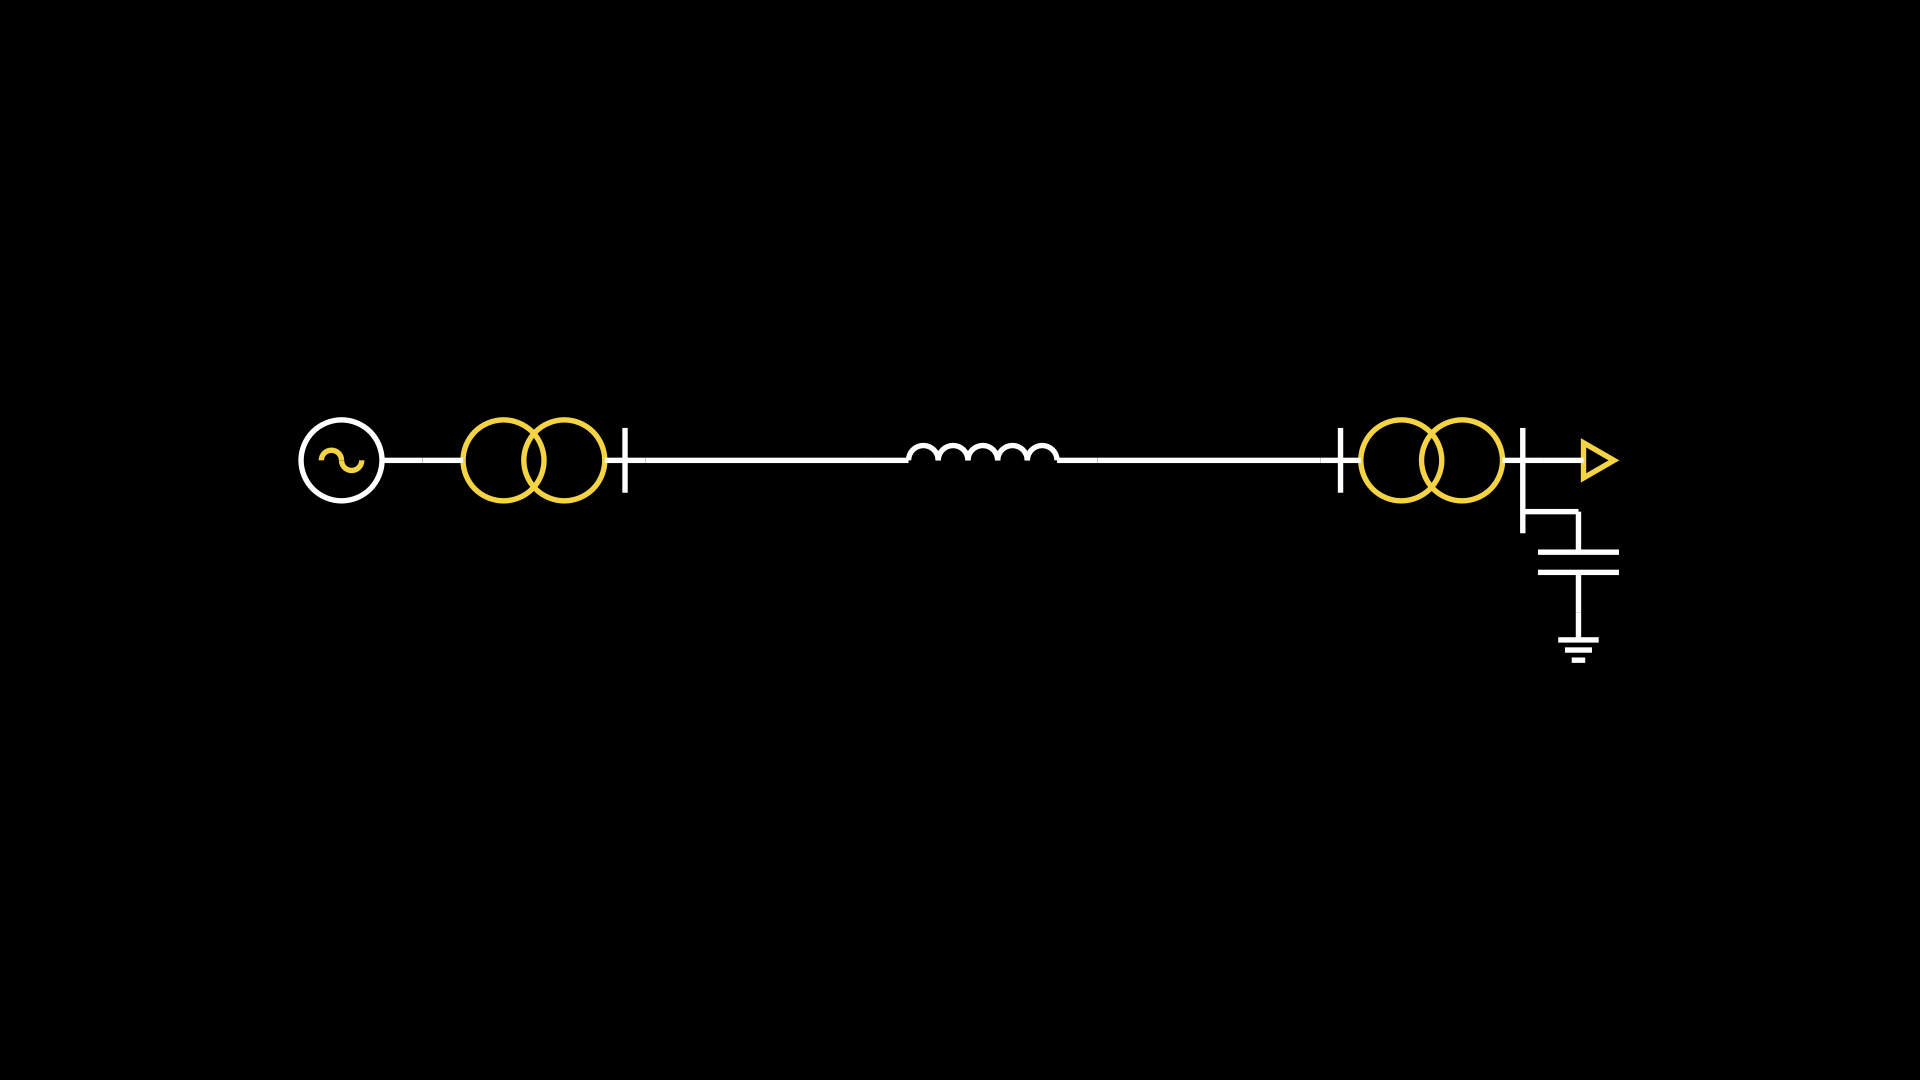
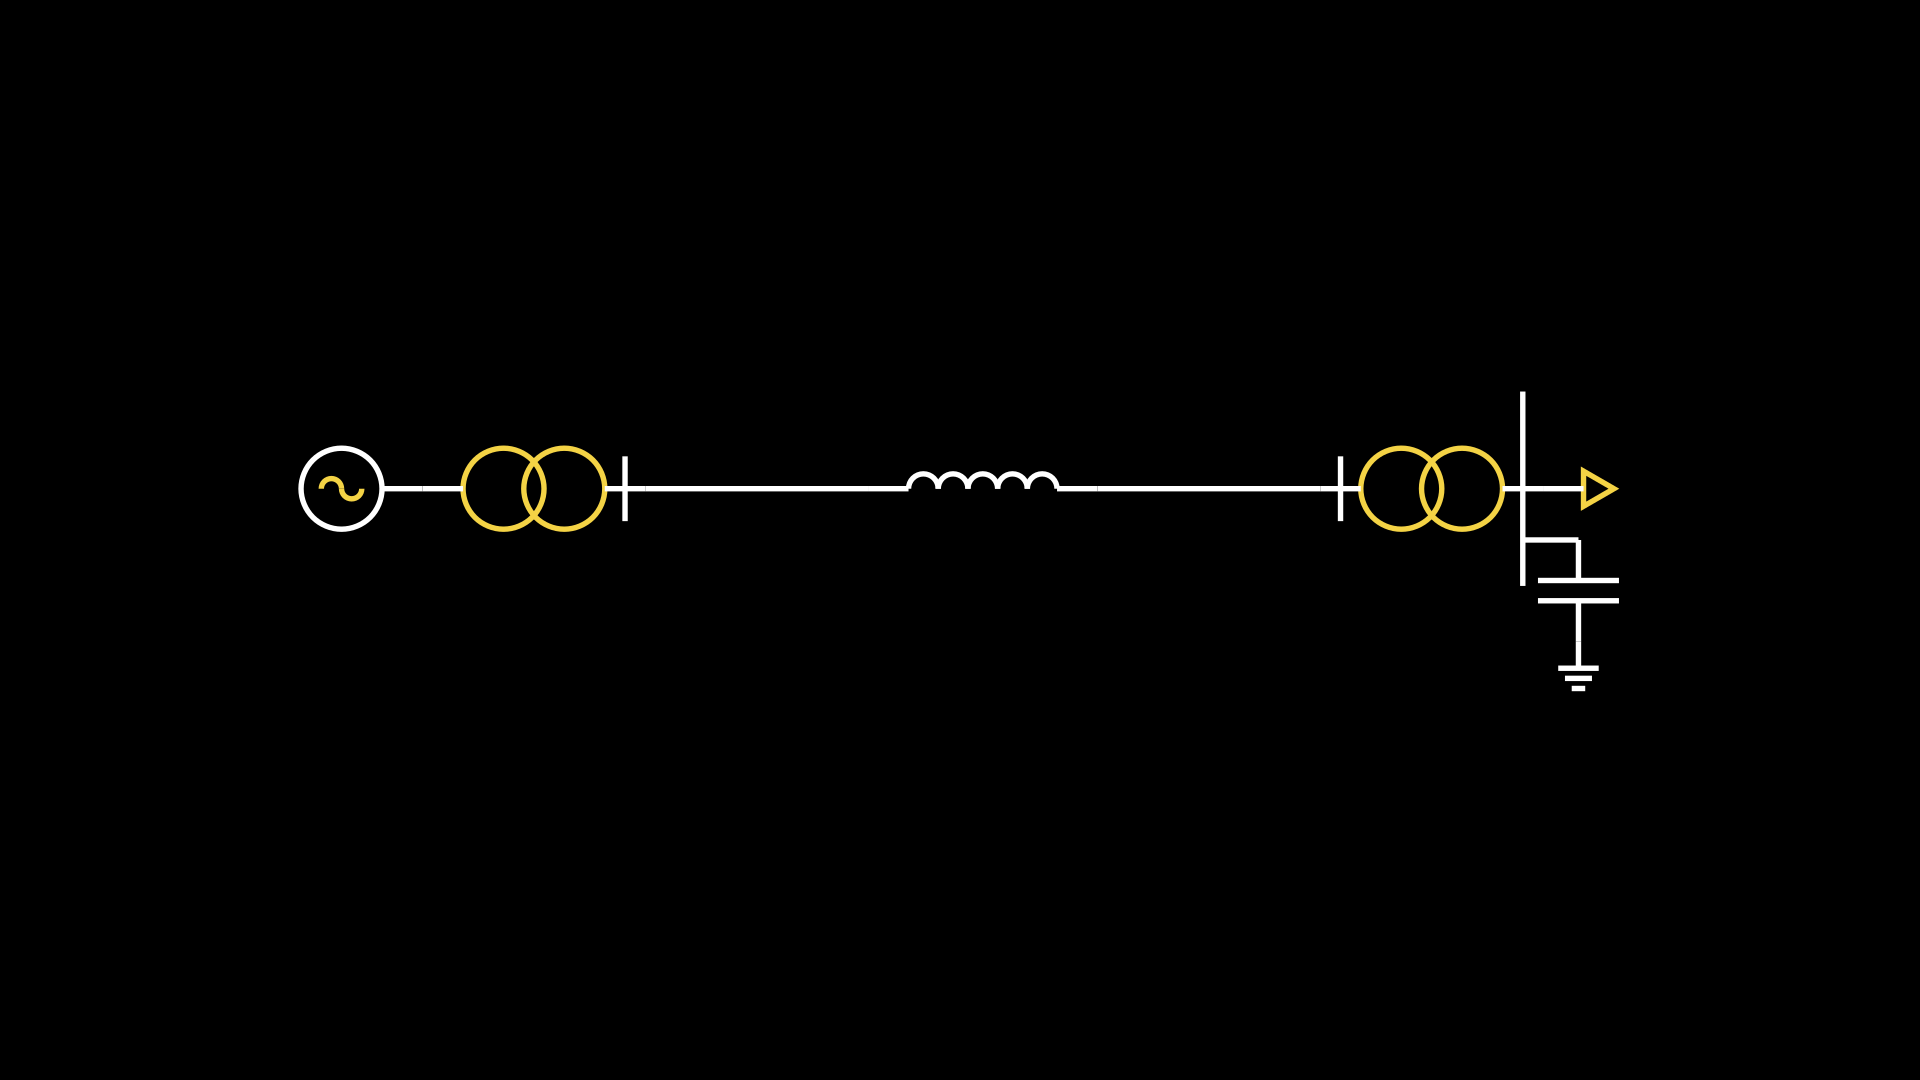
基本实现基础元件绘制  代码更加规范化  优化了效果图的表现  删除了Bus.prolong

Changed region(s): [[0.1562, 0.3667, 0.8438, 0.6417]]

diff --git a/manimee.py b/manimee.py
@@ -4,46 +4,40 @@
 # @File    : manimee.py
 # @Description : Manim in electrical engineering. 电气工程Manim。
 from manim import *
-from manim.typing import Vector3D
 
-CIRCLE_RADIUS: float = 0.3                  # 圆形的默认半径
-LINE_LENGTH: float = 0.3                    # 引出线默认长度
-BUS_LENGTH: float = CIRCLE_RADIUS * 1.6     # 母线默认长度
-LOAD_TRIANGLE_SCALE: float = 0.15           # 负荷符号三角形 相对于 Manim默认三角形 的缩放比例
-VOLTAGE_OUTER_RADIUS: float = 0.1           # 电压圆环默认外径
-AUTO_TRANSFORMER_ARC_RATE: float = 1.4      # 自耦变压器弧线的半径对于CIRCLE_RADIUS的倍率
+CIRCLE_RADIUS: float = 0.3  # 圆形的默认半径
+LINE_LENGTH: float = 0.3  # 引出线默认长度
+BUS_LENGTH: float = CIRCLE_RADIUS * 1.6  # 母线默认长度
+LOAD_TRIANGLE_SCALE: float = 0.15  # 负荷符号三角形 相对于 Manim默认三角形 的缩放比例
+VOLTAGE_OUTER_RADIUS: float = 0.1  # 电压圆环默认外径
+AUTO_TRANSFORMER_ARC_RATE: float = 1.4  # 自耦变压器弧线的半径对于CIRCLE_RADIUS的倍率
 
-NORMAL_COLOR: ManimColor = YELLOW_D         # 特殊颜色的默认颜色
+NORMAL_COLOR: ManimColor = YELLOW_D  # 特殊颜色的默认颜色
 
 
 class Bus(Line):
     """
     母线
     """
+
     def __init__(self,
+                 length: float = BUS_LENGTH,
                  buff=0,
                  path_arc=None,
-                 **kwargs):
-        super().__init__(ORIGIN, (0, BUS_LENGTH, 0), buff, path_arc, **kwargs)
-
-    def prolong(self,
-                length: float,
-                direction: Vector3D = DOWN):
-        """
-        延长
-        :param length: 长度
-        :param direction: 延长方向。取投影向量方向。
-        :return: self
-        """
-
-        return self
+                 **kwargs
+                 ):
+        super().__init__(ORIGIN, (0, length, 0), buff, path_arc, **kwargs)
 
 
 class Gnd(VGroup):
     """
     GND
     """
-    def __init__(self, *vmobjects, **kwargs):
+
+    def __init__(self,
+                 *vmobjects,
+                 **kwargs
+                 ):
         """
         :param vmobjects: 同 VGroup
         :param kwargs: 同 VGroup
@@ -67,9 +61,11 @@ class Voltage(Annulus):
     """
     可视化电压电压，效果为圆环，外径反应电压数值大小，内径反应电压横分量大小。
     """
+
     def __init__(self,
                  voltage_level: float = 0,
-                 voltage: complex = 0):
+                 voltage: complex = 0
+                 ):
         """
         电压可视化
         :param voltage_level: 电压等级
@@ -100,7 +96,8 @@ class Voltage(Annulus):
 
     @voltage_level.setter
     def voltage_level(self,
-                      voltage_level: float):
+                      voltage_level: float
+                      ):
         self._voltage_level = voltage_level
         self._rectify_radius()
 
@@ -111,7 +108,8 @@ class Voltage(Annulus):
 
     @voltage.setter
     def voltage(self,
-                voltage: complex):
+                voltage: complex
+                ):
         self._voltage = voltage
         self._rectify_radius()
 
@@ -120,6 +118,7 @@ class Impedance(VGroup):
     """
     电阻/阻抗/导纳
     """
+
     def __init__(self,
                  *vmobjects,
                  **kwargs):
@@ -139,10 +138,12 @@ class Inductance(VGroup):
     """
     电感
     """
+
     def __init__(self,
                  arc_amount: int = 5,
                  *vmobjects,
-                 **kwargs):
+                 **kwargs
+                 ):
         """
         :param arc_amount: 圆弧数量
         :param vmobjects: 同 VGroup
@@ -169,9 +170,11 @@ class Capacitor(VGroup):
     """
     电容
     """
+
     def __init__(self,
                  *vmobjects,
-                 **kwargs):
+                 **kwargs
+                 ):
         super().__init__(*vmobjects, **kwargs)
         # 电容符号的极板
         self.p1: Line = Line((LINE_LENGTH / 2, 0, 0), (LINE_LENGTH / 2, LINE_LENGTH * 2, 0))
@@ -190,10 +193,12 @@ class WithBuses(VGroup):
     """
     带母线元件基类
     """
+
     def __init__(self,
                  bus: bool = False,
                  *vmobjects,
-                 **kwargs):
+                 **kwargs
+                 ):
         """
         :param bus: 是否绘制母线
         :param vmobjects: 同 VGroup
@@ -216,7 +221,8 @@ class WithBuses(VGroup):
 
     @bus.setter
     def bus(self,
-            value: bool = True):
+            value: bool = True
+            ):
         self._bus = value
         if self._bus:
             self._rectify_buses()
@@ -238,10 +244,12 @@ class Source(WithBuses):
     """
     电源
     """
+
     def __init__(self,
                  bus: bool = False,
                  *vmobjects,
-                 **kwargs):
+                 **kwargs
+                 ):
         """
         :param bus: 是否绘制母线
         :param vmobjects: 同 VGroup
@@ -273,10 +281,12 @@ class Transformer2(WithBuses):
     """
     双绕组变压器
     """
+
     def __init__(self,
                  bus: bool = False,
                  *vmobjects,
-                 **kwargs):
+                 **kwargs
+                 ):
         """
         :param bus: 是否绘制母线
         :param vmobjects: 同 VGroup
@@ -306,10 +316,12 @@ class Transformer3(WithBuses):
     """
     三绕组变压器
     """
+
     def __init__(self,
                  bus: bool = False,
                  *vmobjects,
-                 **kwargs):
+                 **kwargs
+                 ):
         """
         :param bus: 是否绘制母线
         :param vmobjects: 同 VGroup
@@ -343,10 +355,12 @@ class AutoTransformer2(WithBuses):
     """
     自耦双绕组变压器
     """
+
     def __init__(self,
                  bus: bool = False,
                  *vmobjects,
-                 **kwargs):
+                 **kwargs
+                 ):
         """
         :param bus: 是否绘制母线
         :param vmobjects: 同 VGroup
@@ -357,7 +371,7 @@ class AutoTransformer2(WithBuses):
         self.circle: Circle = Circle(CIRCLE_RADIUS, color=NORMAL_COLOR)
         self.add(self.circle)
         # 弧线
-        self.arc: Arc = Arc(CIRCLE_RADIUS * AUTO_TRANSFORMER_ARC_RATE, start_angle=TAU*3/4, angle=TAU/4, color=NORMAL_COLOR)
+        self.arc: Arc = Arc(CIRCLE_RADIUS * AUTO_TRANSFORMER_ARC_RATE, start_angle=TAU * 3 / 4, angle=TAU / 4, color=NORMAL_COLOR)
         self.arc.align_to(self.circle, DOWN)
         self.add(self.arc)
         # 引出线
@@ -374,10 +388,12 @@ class AutoTransformer3(WithBuses):
     """
     自耦三绕组变压器
     """
+
     def __init__(self,
                  bus: bool = False,
                  *vmobjects,
-                 **kwargs):
+                 **kwargs
+                 ):
         """
         :param bus: 是否绘制母线
         :param vmobjects: 同 VGroup
@@ -391,7 +407,7 @@ class AutoTransformer3(WithBuses):
         self.circles.append(self.circles[0].copy().next_to(self.circles[0], LEFT, buff=-0.15))
         self.add(*self.circles)
         # 弧线
-        self.arc: Arc = Arc(CIRCLE_RADIUS * AUTO_TRANSFORMER_ARC_RATE, start_angle=TAU*3/4, angle=TAU/4, color=NORMAL_COLOR)
+        self.arc: Arc = Arc(CIRCLE_RADIUS * AUTO_TRANSFORMER_ARC_RATE, start_angle=TAU * 3 / 4, angle=TAU / 4, color=NORMAL_COLOR)
         self.arc.align_to(self.circles[0], DOWN)
         self.add(self.arc)
         # 引出线
@@ -409,9 +425,11 @@ class Load(VGroup):
     """
     负荷
     """
+
     def __init__(self,
                  *vmobjects,
-                 **kwargs):
+                 **kwargs
+                 ):
         super().__init__(*vmobjects, **kwargs)
         # 三角形
         self.triangle = Triangle(color=NORMAL_COLOR).scale(LOAD_TRIANGLE_SCALE).rotate(-90 * DEGREES)
@@ -429,9 +447,11 @@ class Reactor(VGroup):
     """
     电抗器
     """
+
     def __init__(self,
                  *vmobjects,
-                 **kwargs):
+                 **kwargs
+                 ):
         super().__init__(*vmobjects, **kwargs)
         # 3/4圆弧
         self.arc: Arc = Arc(CIRCLE_RADIUS, 0, TAU * 3 / 4)
@@ -443,8 +463,8 @@ class Reactor(VGroup):
         self.add(self.right_angle)
         # 引出线
         self.lines: list[Line] = [
-            Line((CIRCLE_RADIUS, 0, 0), (2*CIRCLE_RADIUS, 0, 0)),
-            Line((-CIRCLE_RADIUS, 0, 0), (-2*CIRCLE_RADIUS, 0, 0))
+            Line((CIRCLE_RADIUS, 0, 0), (2 * CIRCLE_RADIUS, 0, 0)),
+            Line((-CIRCLE_RADIUS, 0, 0), (-2 * CIRCLE_RADIUS, 0, 0))
         ]
         self.add(*self.lines)
 
@@ -455,6 +475,9 @@ class Scheme(VGroup):
     """
     Scheme
     """
-    def __init__(self, *vmobjects, **kwargs):
-        super().__init__(*vmobjects, **kwargs)
 
+    def __init__(self,
+                 *vmobjects,
+                 **kwargs
+                 ):
+        super().__init__(*vmobjects, **kwargs)

diff --git a/demos.py b/demos.py
@@ -25,8 +25,7 @@ class SimpleChart(Scene):
         gnd = Gnd().next_to(c1.lines[1], DOWN, buff=0)
 
         # 手动调整母线长……
-        bus_start = t2.buses[0].get_start()
-        t2.buses[0].put_start_and_end_on((bus_start[0], bus_start[1] - LINE_LENGTH, bus_start[2]), t2.buses[0].get_end())
+        t2.buses[0].set_length(t2.buses[0].get_length() * 3)
         # 去掉t1电源测的母线
         t1.remove(t1.buses[1])
 
@@ -43,18 +42,18 @@ class Elements(Scene):
             Bus(),
             Gnd(),
             Voltage(),
+            Load(),
             Impedance(),
             Inductance(),
             Capacitor(),
+            Reactor(),
             Source(),
             Transformer2(),
-            Transformer3(),
             AutoTransformer2(),
             AutoTransformer3(),
-            Load(),
-            Reactor(),
+            Transformer3(),
         )
-        g.arrange_in_grid()
+        g.arrange_in_grid(buff=0.5)
         self.add(g)
 
 

diff --git a/readme.md b/readme.md
@@ -14,6 +14,6 @@
 
 # TODO
 
-- [ ] 基本电子元件绘制
+- [x] 基础元件绘制
 - [ ] 初步实现元件布局自动化
-- [ ] ……
+- [ ] 动画的细节调控
